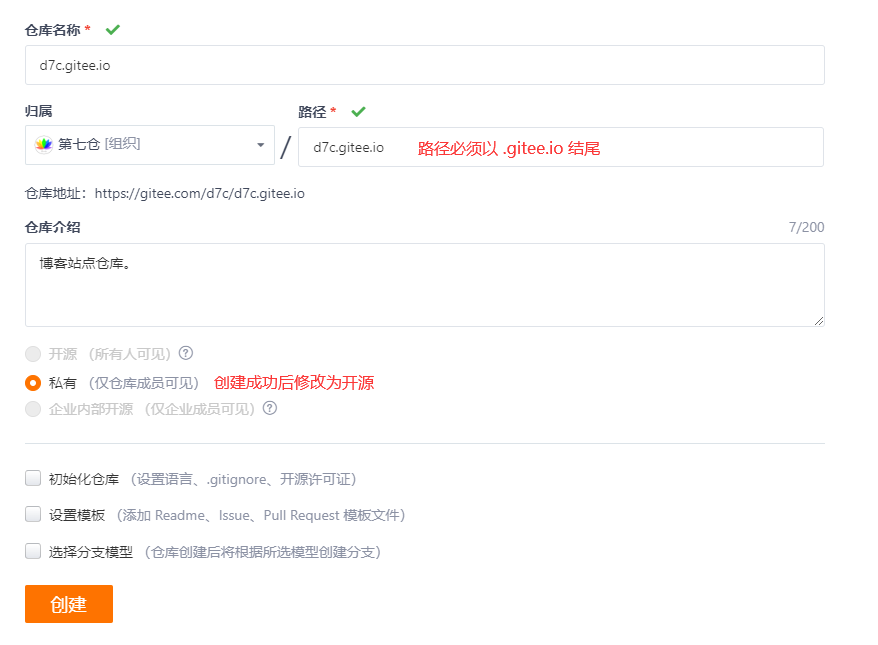
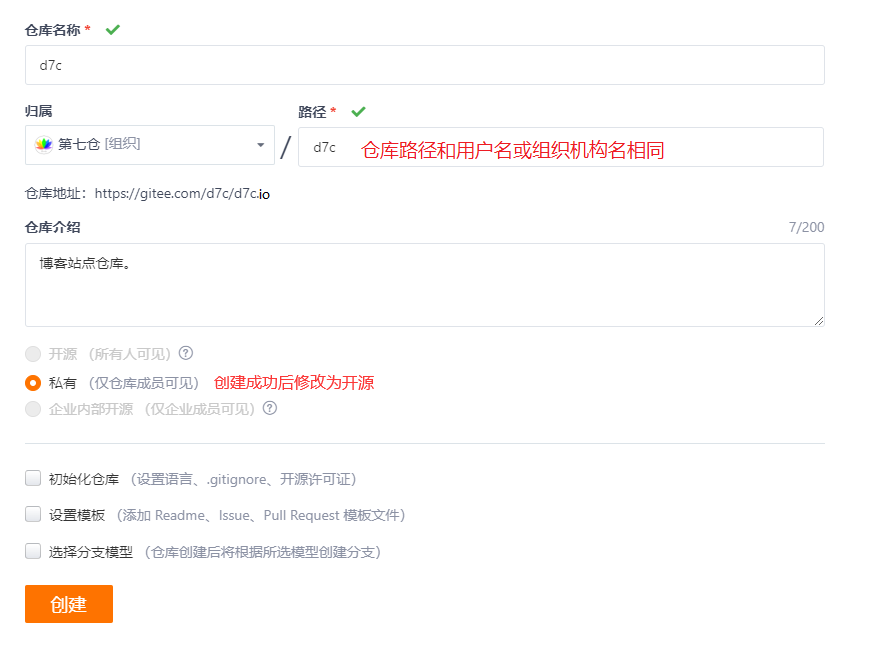
1

Changed region(s): [[0.369, 0.2171, 0.7688, 0.2481], [0.2768, 0.2791, 0.3383, 0.3101], [0.0615, 0.093, 0.123, 0.124]]

diff --git a/README.md b/README.md
@@ -95,7 +95,7 @@ npm install --save hexo-deployer-git
 ## Docs: https://hexo.io/docs/one-command-deployment
 deploy:
   type: git
-  repo: https://gitee.com/d7c/d7c.gitee.io.git
+  repo: https://gitee.com/d7c/d7c.git
   branch: master
 ```
 
@@ -104,7 +104,7 @@ deploy:
 ```
 hexo clean
 hexo deploy
-访问：https://d7c.github.io/
+访问：https://d7c.gitee.io/
 ```
 
 ## 目录说明
